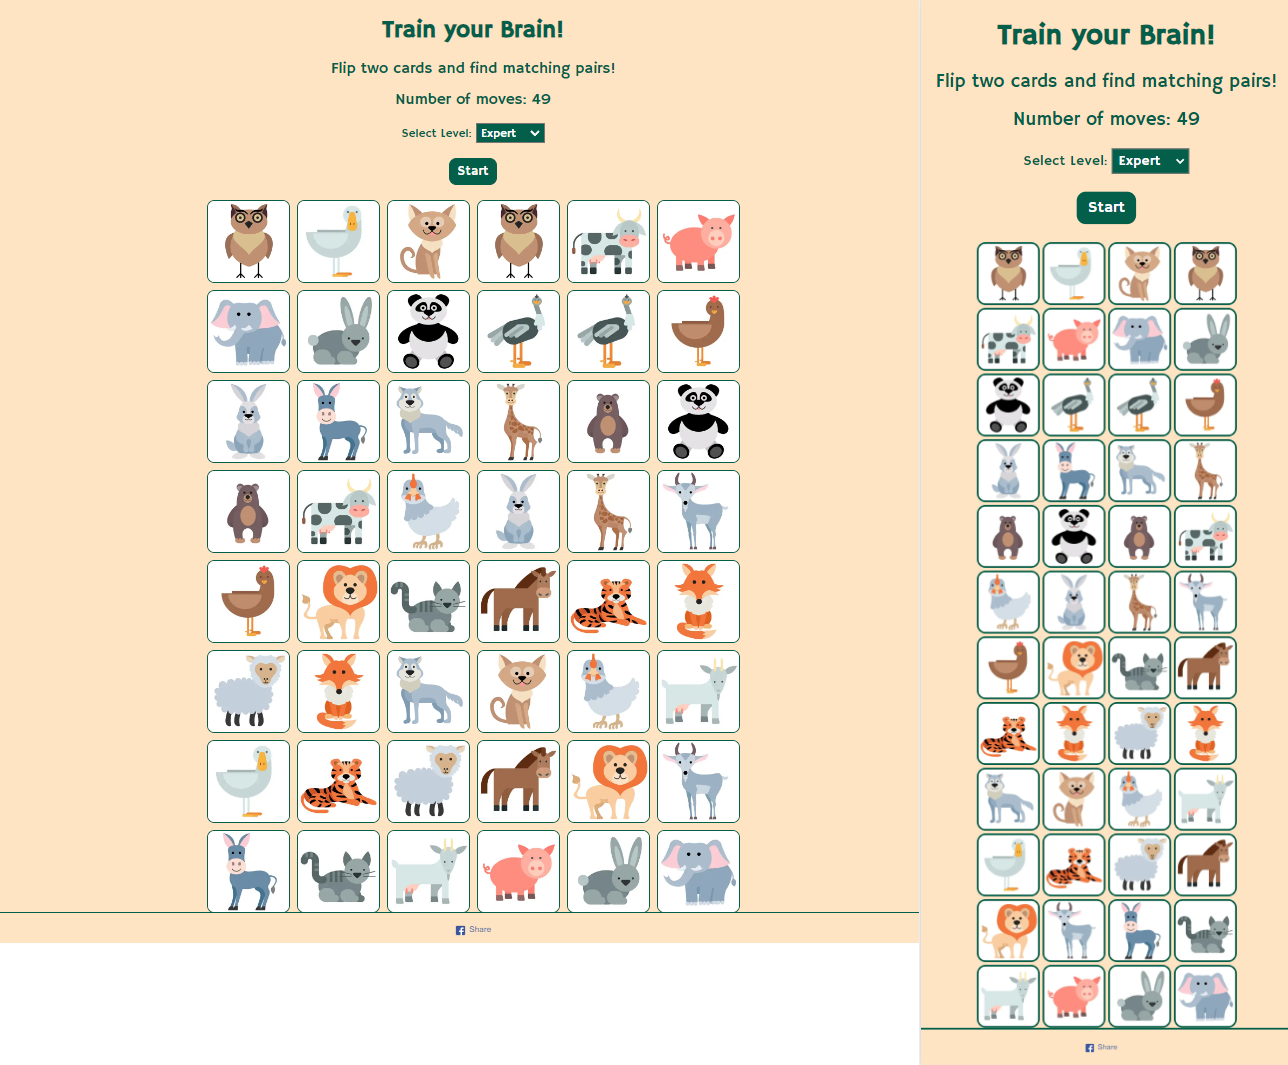
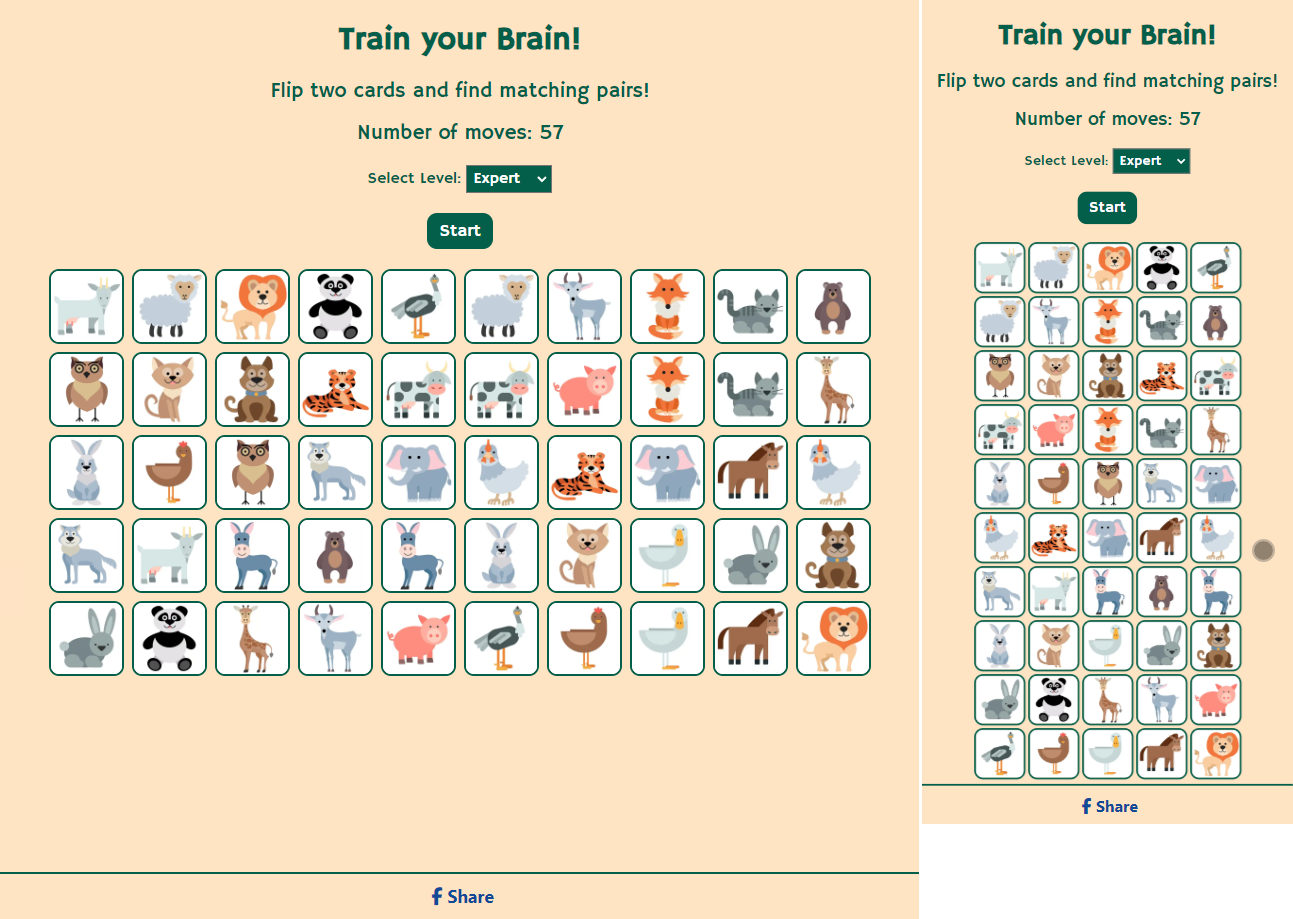
Update Readme with new game board layout, add media queries credits

diff --git a/assets/js/script.js b/assets/js/script.js
@@ -189,39 +189,43 @@ function shuffleCards() {
   }
 }
 
+// Media queries for difficulty level Expert
+// Depending on current media size and if difficulty level is Expert
+// the game board will be populated with 5 columns and defined card sizes
+// so the user can see all cards on the screen without scrolling
 
 let mqls = [
   window.matchMedia("(max-width: 510px)"),
   window.matchMedia("(min-width: 510px) and (max-width: 767px)"),
   window.matchMedia("(min-width: 768px) and (max-width: 991px)"),
   window.matchMedia("(min-width: 992px)")
-]
+];
 function gridSize(mql) {
   if (mqls[0].matches && difficulty === 25) {
-    document.querySelector(".game-container").style.gridTemplateColumns = "repeat(5, 57px)"
+    document.querySelector(".game-container").style.gridTemplateColumns = "repeat(5, 57px)";
   } else if (mqls[0].matches && difficulty != 25) {
-    document.querySelector(".game-container").style.gridTemplateColumns = "repeat(4, 57px)"
+    document.querySelector(".game-container").style.gridTemplateColumns = "repeat(4, 57px)";
   }
   if (mqls[1].matches && difficulty === 25) {
-    document.querySelector(".game-container").style.gridTemplateColumns = "repeat(5, 65px)"
+    document.querySelector(".game-container").style.gridTemplateColumns = "repeat(5, 65px)";
   } else if (mqls[1].matches && difficulty != 25) {
-    document.querySelector(".game-container").style.gridTemplateColumns = "repeat(4, 65px)"
+    document.querySelector(".game-container").style.gridTemplateColumns = "repeat(4, 65px)";
   }
   if (mqls[2].matches && difficulty === 25) {
-    document.querySelector(".game-container").style.gridTemplateColumns = "repeat(5, 70px)"
+    document.querySelector(".game-container").style.gridTemplateColumns = "repeat(5, 70px)";
   } else if (mqls[2].matches && difficulty != 25) {
-    document.querySelector(".game-container").style.gridTemplateColumns = "repeat(6, 70px)"
+    document.querySelector(".game-container").style.gridTemplateColumns = "repeat(6, 70px)";
   }
   if (mqls[3].matches && difficulty === 25) {
-    document.querySelector(".game-container").style.gridTemplateColumns = "repeat(5, 75px)"
+    document.querySelector(".game-container").style.gridTemplateColumns = "repeat(10, 75px)";
   } else if (mqls[3].matches && difficulty != 25) {
-    document.querySelector(".game-container").style.gridTemplateColumns = "repeat(6, 75px)"
+    document.querySelector(".game-container").style.gridTemplateColumns = "repeat(6, 75px)";
   }
 }
-
+// If screen size changes, the grid will be updated accordingly
 for (let i=0; i < mqls.length; i++) {
-  gridSize(mqls[i])
-  mqls[i].addEventListener("change", gridSize)
+  gridSize(mqls[i]);
+  mqls[i].addEventListener("change", gridSize);
 }
 
   

diff --git a/README.md b/README.md
@@ -67,8 +67,8 @@ The cards are flipped so that the backside with paw-prints is visible. The front
 
 There are totally 25 cards available. Before a new game starts, all 25 cards are shuffled. Then, the number of cards according to the selected difficulty level is extracted, duplicated and shuffled once more before the game board is populated.
 
-On small screens the game board consists of 4 columns, on large screens of 6 columns. 
-The game is designed for screens as small as 300px. Scrolling is unavoidable for hard and expert levels, however this does not compromise the playing experience.
+On small screens the game board consists of 4 columns, respective 5 columns for Expert level; and on large screens of 6 columns, respective 10 columns for Expert level. 
+The game is designed for screens as small as 300px.
 
 Easy level consists of 12 cards/6 pairs
 
@@ -82,7 +82,7 @@ Hard level consists of 36 cards/18 pairs
 
 ![Hard level](assets/readme-docs/game-won-hard.png)
 
-Expert level consists of 48 cards/24 pairs
+Expert level consists of 50 cards/25 pairs
 
 ![Expert level](assets/readme-docs/game-won-expert.png)
 
@@ -142,23 +142,23 @@ The color scheme was selected as it's calm and doesn't distract the user from th
 
 **White**<br>
 _"White is clean, simple, and pure. It stands in stark opposition to black, and its meanings are unequivocal. As white light contains all the colors of the spectrum, it’s an inclusive, impartial color, favoring no single hue and refusing to take sides."_<br>
-_[Source of description of "white"](https://www.sensationalcolor.com/meaning-of-white/)_<br>
-Here it's used as high contrast text color against the dark Castleton Green of buttons and the selected difficulty levels.
+_[Source of description for "white"](https://www.sensationalcolor.com/meaning-of-white/)_<br>
+Here white is used as high contrast text color against the dark Castleton Green of buttons and the selected difficulty levels.
 
 **Castleton Green**<br>
 _"Castleton Green is a deep, rich green color, resembling the color of Castleton tea leaves. It's a classic and timeless color, ideal for creating a traditional and elegant ambiance."_<br>
-_[Source of description "castleton green"](https://colors.muz.li/color/castleton-green)_<br>
-It also resembles nature and fits well with the animal theme of the cards. It's used for text, as background for buttons and as border for the cards.
+_[Source of description for "castleton green"](https://colors.muz.li/color/castleton-green)_<br>
+Castleton Green also resembles nature and fits well with the animal theme of the cards. It's used for text, as background for buttons and as border for the cards.
 
 **Champagne**<br>
 _"Named after the bubbly beverage, champagne is a mixture of yellow and orange and closely resembles beige. Sitting on the inner, paler portion of the color wheel, the warmth of orange mellows the brightness of yellow in it.
 Champagne brings to mind the effervescence of the drink. Because the drink is usually consumed in happy events like weddings or New Years, it also evokes feelings of joy."_ <br>
-_[Source of description of "champagne"](https://www.canva.com/colors/color-meanings/champagne/)_<br>
+_[Source of description for "champagne"](https://www.canva.com/colors/color-meanings/champagne/)_<br>
 Of course our Memory Game also bring joy to the users. Therefore, champagne is used as background color.
 
 **Tawny**<br>
 _"Tawny comes from the Anglo-Norman word, taune, which means tanned. Although you might think first of sun tans, which do indeed produce tawny colors in light-skinned people (as long as they don't go straight to lobster red), tan first meant the bark of an oak tree, used to cure leather. It's from the look of tanned leather that we get skin tans and the word tawny."_<br>
-_[Source of description of "tawny"](https://www.vocabulary.com/dictionary/tawny)_<br>
+_[Source of description for "tawny"](https://www.vocabulary.com/dictionary/tawny)_<br>
 In this game we use tawny as border color for the dialog boxes so that they stand out clearly agains the game in the background. It's also the color of the paws print on the card backside.
 
 
@@ -171,8 +171,8 @@ The font was chosen as it provides very well readability in all sizes, looks ver
 
 
 ## Layout
-The layout was kept very simple. Main focus is on playing a game that requires concentration, at least when playing the hard or extrem level. <br>As some of the used images look very similar both in form and color, I decided to keep the cards at a reasonable size even when that means that the user has to scroll on small screens. 
-Both myself and friends tried the extrem level on mobiles and nobody considered scrolling an issue. I think it would be much more annoying when you can't figure out what animal you are actually seeing on the screen.
+The layout was kept very simple. Main focus is on playing a game that requires concentration, at least when playing the hard or extrem level. <br>
+One challenge was to avoid the necessity for scrolling for expert level but still keeping a reasonable card size. I solved this by using 25 pairs/50 cards and dynamically change the game board to 5 columns for small screens respective 10 columns for larger screens.
 
 ## Technology
 
@@ -245,7 +245,7 @@ The site scores very high in all areas.
 | 	| Level Easy | Screen size < 992px: 4 columns, 3 rows <br>Screens size > 992px: 6 columns, 2 rows |
 | 	| Level Medium | Screen size < 992px: 4 columns, 6 rows <br>Screens size > 992px: 6 columns, 4 rows |
 | 	| Level Hard | Screen size < 992px: 4 columns, 9 rows <br>Screens size > 992px: 6 columns, 6 rows |
-| 	| Level Expert | Screen size < 992px: 4 columns, 12 rows <br>Screens size > 992px: 6 columns, 8 rows |
+| 	| Level Expert | Screen size < 992px: 5 columns, 10 rows <br>Screens size > 992px: 10 columns, 5 rows |
 | Cancel-button in dialog box | Click  |Closes the dialog box and leaves the game in its present state, showing matches and/or flipped cards and number of moves|
 | **Game won** | 	| |
 | All card pairs matched  | Dialog box  |A dialog box appears with the text "Congratulations! You found all matches! Well done!" and a animated "Partying-face" emoji.<br>The area behind the dialog box is faded and cannot be clicked.|
@@ -276,7 +276,6 @@ Functionality, links, layout, and responsiveness were tested on the following de
 
 2. When the game was near to be finished I realized that the game board would be empty on the first page load. As this is not a good user-experience, I decided to pre-populate the selected cards array with 6 cards.
 
-3. Originally I had 5 difficulty levels and wanted to use the matchMedia method to change the game grid from 4 to 6 columns for the two hardest levels on large screens. Unfortunately this did not work very well and the result was a quite bumpy layout change. To make the transition smooth, I reduced the number of difficulty levels to four and just took number of cards that can be divided both by 4 and 6 and added CSS media queries instead. 
 
 ## Deployment
 
@@ -291,14 +290,14 @@ The live link can be found here - <https://claudiainsweden.github.io/train-your-
 ## Forkning
 
 A fork is a new repository that shares code and visibility settings with the original repository.
-<br>Please refer to the official GitHub documentation on how to fork my repository.<br>
+<br>Please refer to the official GitHub documentation on how to fork my repository.<br>You're welcome to do so.<br>
 [Link to the GitHub Documentation](https://docs.github.com/en/pull-requests/collaborating-with-pull-requests/working-with-forks/fork-a-repo#forking-a-repository)<br>
 [Link to the Train your Brain Repository](https://github.com/ClaudiaInSweden/train-your-brain)
 
 ## Cloning
 
 Cloning a repository pulls down a full copy of all the repository data that GitHub.com has at that point in time, including all versions of every file and folder for the project. 
-<br>Please refer to the official GitHub documentation on how to clone my repository.<br>
+<br>Please refer to the official GitHub documentation on how to clone my repository.<br>You're welcome to do so.<br>
 [Link to the GitHub Documentation](https://docs.github.com/en/repositories/creating-and-managing-repositories/cloning-a-repository)<br>
 [Link to the Train your Brain Repository](https://github.com/ClaudiaInSweden/train-your-brain)
 
@@ -323,7 +322,6 @@ All images, icons and illustrations are from free sources as listed below:
 - Images for cards from [Macrovector on Freepik](https://www.freepik.com/free-vector/wild-home-animals-set_4005528.htm)
 - Paw image for back side of cards from [Vectorstock](https://www.vectorstock.com/royalty-free-vector/a-footpath-trail-dog-prints-walking-randomly-vector-33704528)
 - Animated emojis on 404 page and game won dialog box from [Animated Emoji](https://googlefonts.github.io/noto-emoji-animation/)
-- Facebook Share Button from [Meta for Developers](https://developers.facebook.com/docs/plugins/share-button/)
 
 
 ### Code
@@ -335,6 +333,7 @@ The following tutorials and websites were used for inspiration and guidance:
 - Window: confirm() method: [MDN Web Docs](https://developer.mozilla.org/en-US/docs/Web/API/Window/confirm)
 - Difficulty level: [Memory Master](https://natashary.github.io/memory-game/)
 - HTML dialog element: [Web Dev Simplified Blog](https://blog.webdevsimplified.com/2023-04/html-dialog/)
+- Match multiple media queries: [JavaScript Kit](http://www.javascriptkit.com/javatutors/matchmediamultiple.shtml)
 
 as well as
 
